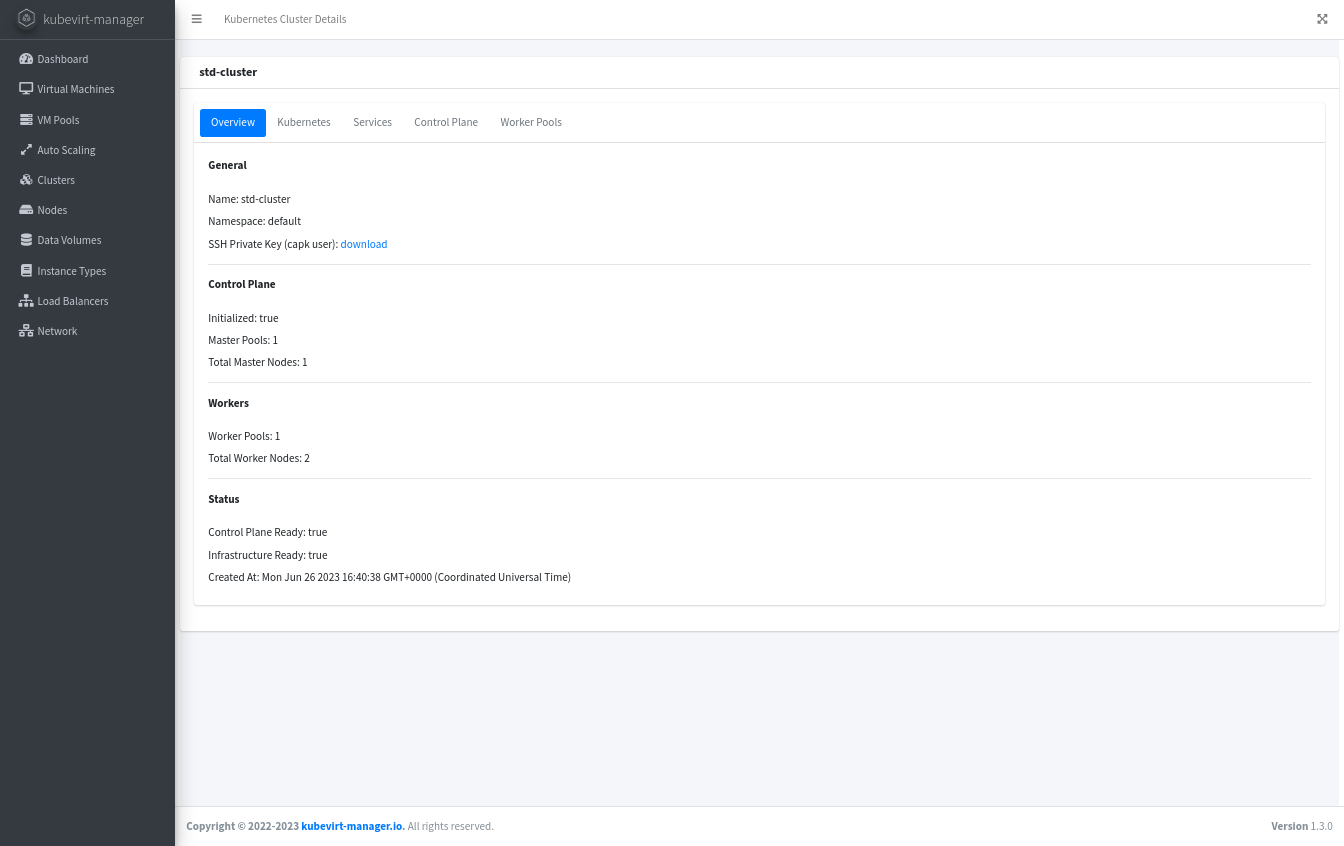
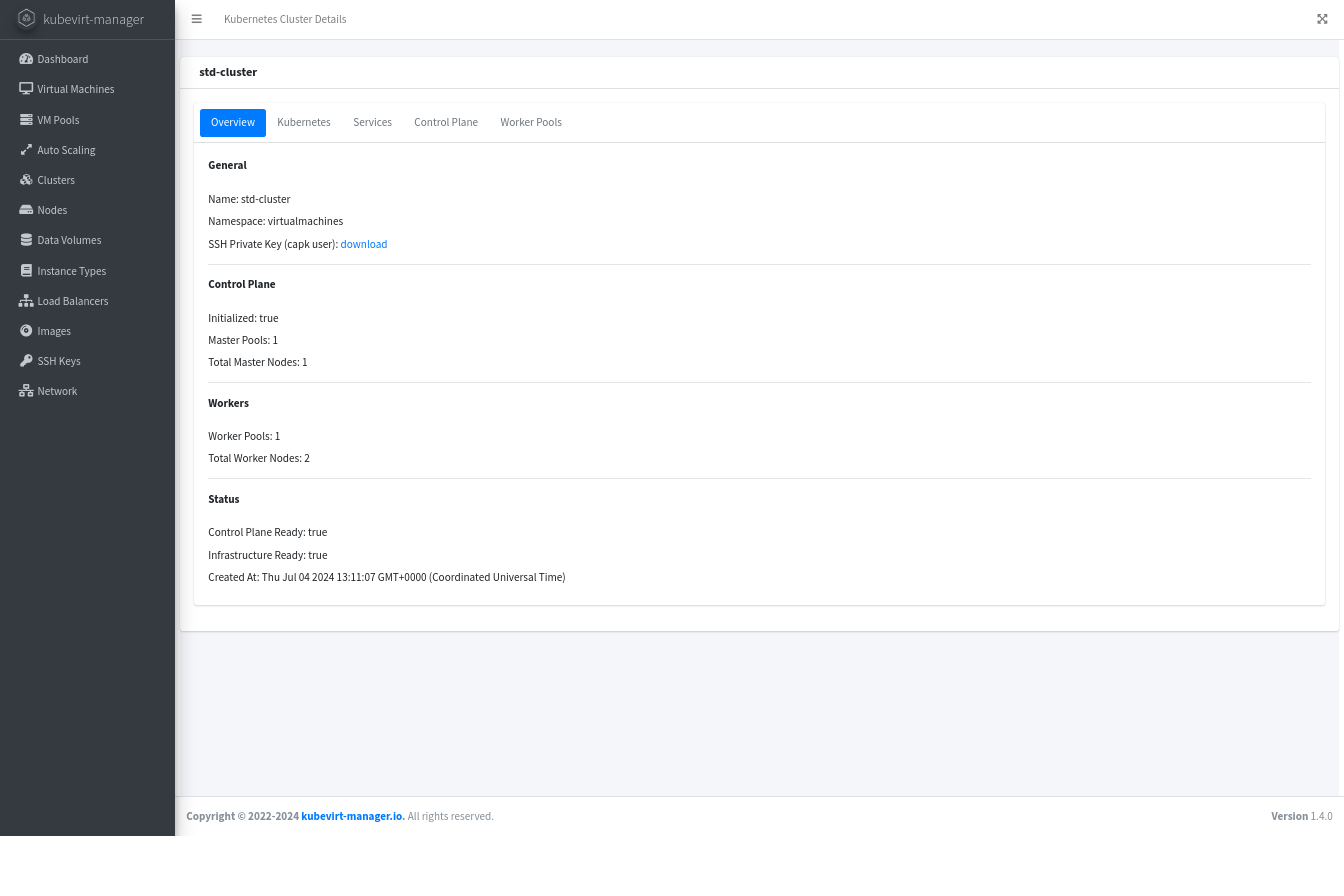
Kubevirt Manager 1.4.0 Release

diff --git a/features.html b/features.html
@@ -186,6 +186,27 @@
           </div>
           <div class="row">&nbsp;</div>
         </div>
+        <div class="row">
+            <div class="column-feature-noshadow">&nbsp;</div>
+            <div class="column-feature">
+              <div class="feature-content">
+                <strong>IMAGES</strong><br>
+                Support for <strong>Images</strong> helps operator maintain a repository of images from different sources.
+                Select between <strong>HTTP</strong>, <strong>S3</strong>and <strong>GCS</strong> among other options.
+              </div>
+            </div>
+            <div class="column-feature-spacer">&nbsp;</div>
+            <div class="column-feature">
+                <div class="feature-content">
+                  <strong>SSH KEYS</strong><br>
+                  Easily manage and access your <strong>SSH Keys</strong> to access your Virtual Machines through new integration
+                  of Kubevirt Manager to <strong>Kubernetes Secrets API</strong>. 
+                </div>
+            </div>
+            <div class="column-feature-noshadow">&nbsp;</div>
+          </div>
+          <div class="row">&nbsp;</div>
+        </div>
       </div>
       <!-- Body End -->
 

diff --git a/index.html b/index.html
@@ -166,6 +166,12 @@
         <div class="mySlides">
           <img src="/img/screenshots/screenshot_14.png" alt="kubevirt-manager kubevirt dashboard webui" style="width:100%">
         </div>
+        <div class="mySlides">
+          <img src="/img/screenshots/screenshot_15.png" alt="kubevirt-manager kubevirt dashboard webui" style="width:100%">
+        </div>
+        <div class="mySlides">
+          <img src="/img/screenshots/screenshot_16.png" alt="kubevirt-manager kubevirt dashboard webui" style="width:100%">
+        </div>
           
         <a class="prev" onclick="plusSlides(-1)">❮</a>
         <a class="next" onclick="plusSlides(1)">❯</a>
@@ -205,7 +211,7 @@
         <div class="row">&nbsp;</div>
         <div class="row">
         <div class="column-full">
-            <center><a href="https://kubevirt-manager.io/get_started.html" alt="#"><h1 id="question-text">Get started now! Latest Release: 1.3.3</h1></a></center>
+            <center><a href="https://kubevirt-manager.io/get_started.html" alt="#"><h1 id="question-text">Get started now! Latest Release: 1.4.0</h1></a></center>
         </div>
         </div>
         <div class="row">&nbsp;</div>

diff --git a/get_started.html b/get_started.html
@@ -164,7 +164,7 @@
               namespace: kubevirt-manager
               labels:
                 app: kubevirt-manager
-                kubevirt-manager.io/version: 1.3.3
+                kubevirt-manager.io/version: 1.4.0
                 kubevirt-manager.io/managed: "true"
             data:
               prometheus.conf: |
@@ -206,7 +206,7 @@
               namespace: kubevirt-manager
               labels:
                 app: kubevirt-manager
-                kubevirt-manager.io/version: 1.3.3
+                kubevirt-manager.io/version: 1.4.0
                 kubevirt-manager.io/managed: "true"
             data:
               basicauth.conf: |
@@ -225,7 +225,7 @@
               namespace: kubevirt-manager
               labels:
                 app: kubevirt-manager
-                kubevirt-manager.io/version: 1.3.3
+                kubevirt-manager.io/version: 1.4.0
                 kubevirt-manager.io/managed: "true"
             data:
               .htpasswd: YWRtaW46JGFwcjEkMk53ckdFZVkkZmtPZkZldVR4Rm5pZzBsc2NaV3c1MQo=
